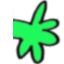
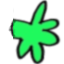
Updated images (for flip). Added overlay.

Changed region(s): [[0.125, 0.3125, 0.25, 0.5938]]

diff --git a/src/main.cpp b/src/main.cpp
@@ -5,6 +5,7 @@
 #include "Foot.h"
 #include "Background.h"
 #include "Hand.h"
+#include "Overlay.h"
 
 #include <GL/glut.h>
 
@@ -49,6 +50,7 @@ void draw(int id)
 
   Mob::inst->draw();
   Monster::inst->draw();
+  Overlay::inst->draw();
 
   std::stringstream ss;
   ss << "Distance travelled: " << Monster::inst->getDistance();
@@ -74,18 +76,35 @@ void load_resources()
 {
   Mob::texture = util::sdl_loadtexture("resources/mob.png");
   Foot::texture = util::sdl_loadtexture("resources/foot.png");
+  Foot::texturel = util::sdl_loadtexture("resources/footl.png");
   Hand::texture = util::sdl_loadtexture("resources/hand.png");
+  Hand::texturel = util::sdl_loadtexture("resources/handl.png");
   Monster::texture = util::sdl_loadtexture("resources/body.png");
   Background::grounds.push_back(util::sdl_loadtexture("resources/ground1.png"));
   Background::grounds.push_back(util::sdl_loadtexture("resources/ground2.png"));
   Background::skys.push_back(util::sdl_loadtexture("resources/sky1.png"));
   Background::backgrounds.push_back(util::sdl_loadtexture("resources/background1.png"));
   Background::backgrounds.push_back(util::sdl_loadtexture("resources/background2.png"));
+  Overlay::texture = util::sdl_loadtexture("resources/overlay.png");
 
   f.load("resources/font.png");
   s.load("resources/welcome.ogg");
   lightning.load("resources/lightning.ogg");
-  Monster::fall.load("resources/fall.ogg");
+
+  for(int i = 1; i <= 15; i++)
+  {
+    std::stringstream ss;
+    ss << "resources/fgrunt_" << i << ".ogg";
+    Monster::grunts.push_back(util::Sound(ss.str()));
+  }
+
+  for(int i = 1; i <= 15; i++)
+  {
+    std::stringstream ss;
+    ss << "resources/fgrunt_" << i << ".ogg";
+    Mob::shouts.push_back(util::Sound(ss.str()));
+  }
+
   Foot::plod.load("resources/footstep.ogg");
 }
 
@@ -99,6 +118,7 @@ void restart()
   Camera::inst = std::make_shared<Camera>();
   Monster::inst = std::make_shared<Monster>();
   Mob::inst = std::make_shared<Mob>();
+  Overlay::inst = std::make_shared<Overlay>();
 }
 
 int main()

diff --git a/src/Mob.cpp b/src/Mob.cpp
@@ -6,6 +6,7 @@
 
 SDL_Texture* Mob::texture;
 std::shared_ptr<Mob> Mob::inst;
+std::vector<util::Sound> Mob::shouts;
 
 Mob::Mob()
 {
@@ -13,6 +14,7 @@ Mob::Mob()
   pos.y = 100;
   speed = 10;
   unleashed = false;
+  shoutTimer = 1000;
 }
 
 void Mob::unleash()
@@ -55,4 +57,12 @@ void Mob::update()
   if(!unleashed) return;
   speed += 5 * util::delta_time;
   pos.x += speed * util::delta_time;
+
+  shoutTimer -= 1000 * util::delta_time;
+
+  if(shoutTimer <= 0)
+  {
+    shouts.at(util::rand(shouts.size() - 1)).play();
+    shoutTimer = util::rand(500);
+  }
 }

diff --git a/src/Foot.cpp b/src/Foot.cpp
@@ -6,6 +6,7 @@
 #include <iostream>
 
 SDL_Texture* Foot::texture;
+SDL_Texture* Foot::texturel;
 util::Sound Foot::plod;
 
 Foot::Foot(int id)
@@ -161,5 +162,13 @@ void Foot::draw()
   r.x = pos.x + offset.x;
   r.y = pos.y + offset.y;
   SDL_QueryTexture(texture, NULL, NULL, &r.w, &r.h);
-  SDL_RenderCopy(util::sdl_renderer, texture, NULL, &r);
+
+  if(clientId == 1)
+  {
+    SDL_RenderCopy(util::sdl_renderer, texturel, NULL, &r);
+  }
+  else
+  {
+    SDL_RenderCopy(util::sdl_renderer, texture, NULL, &r);
+  }
 }

diff --git a/src/Hand.cpp b/src/Hand.cpp
@@ -6,6 +6,7 @@
 #include <iostream>
 
 SDL_Texture* Hand::texture;
+SDL_Texture* Hand::texturel;
 util::Sound Hand::grab;
 
 Hand::Hand(int id)
@@ -66,5 +67,13 @@ void Hand::draw()
   r.x = pos.x + offset.x;
   r.y = pos.y + offset.y;
   SDL_QueryTexture(texture, NULL, NULL, &r.w, &r.h);
-  SDL_RenderCopy(util::sdl_renderer, texture, NULL, &r);
+
+  if(clientId == 3)
+  {
+    SDL_RenderCopy(util::sdl_renderer, texturel, NULL, &r);
+  }
+  else
+  {
+    SDL_RenderCopy(util::sdl_renderer, texture, NULL, &r);
+  }
 }

diff --git a/src/util.h b/src/util.h
@@ -32,6 +32,7 @@ extern double delta_time;
 
 bool colliding(SDL_Rect& a, SDL_Rect& b);
 
+int rand(int max);
 void sdl_initialize(std::string title, int width, int height);
 void update_deltatime();
 void sdl_clearscreen(int r, int g, int b);
@@ -67,6 +68,8 @@ class Sound
   std::shared_ptr<SoundImpl> impl;
 
 public:
+  Sound();
+  Sound(std::string path);
   void load(std::string path);
   void play(float vol, float varMin, float varMax);
   void play();

diff --git a/src/Monster.cpp b/src/Monster.cpp
@@ -6,7 +6,7 @@
 
 std::shared_ptr<Monster> Monster::inst;
 SDL_Texture* Monster::texture;
-util::Sound Monster::fall;
+std::vector<util::Sound> Monster::grunts;
 
 Monster::Monster()
 {
@@ -49,7 +49,8 @@ void Monster::update()
     {
       if(fallAmount > 50)
       {
-        fall.play();
+        grunts.at(util::rand(grunts.size() - 1)).play();
+        //fall.play();
         falling = true;
       }
     }

diff --git a/src/Overlay.cpp b/src/Overlay.cpp
@@ -1,0 +1,25 @@
+#include "Overlay.h"
+
+#include <GL/glut.h>
+
+SDL_Texture* Overlay::texture;
+std::shared_ptr<Overlay> Overlay::inst;
+
+Overlay::Overlay()
+{
+
+}
+
+void Overlay::draw()
+{
+  SDL_Rect r = { 0 };
+  r.w = glutGet(GLUT_WINDOW_WIDTH);
+  r.h = glutGet(GLUT_WINDOW_HEIGHT);
+
+  SDL_RenderCopy(util::sdl_renderer, texture, NULL, &r);
+}
+
+void Overlay::update()
+{
+
+}

diff --git a/src/Monster.h b/src/Monster.h
@@ -1,6 +1,7 @@
 #include "util.h"
 
 #include <memory>
+#include <vector>
 
 struct Foot;
 struct Hand;
@@ -9,7 +10,7 @@ struct Monster
 {
   static std::shared_ptr<Monster> inst;
   static SDL_Texture* texture;
-  static util::Sound fall;
+  static std::vector<util::Sound> grunts;
 
   std::shared_ptr<Foot> leftFoot;
   std::shared_ptr<Foot> rightFoot;

diff --git a/src/util.cpp b/src/util.cpp
@@ -22,6 +22,11 @@ namespace util
   ALCcontext* context;
   std::vector<ALuint> audioSources;
 
+  int rand(int max)
+  {
+    return ::rand() % (max + 1);
+  }
+
   void log(std::string message)
   {
     std::cout << "[util]" << message << std::endl;

diff --git a/src/Mob.h b/src/Mob.h
@@ -8,10 +8,12 @@ class Mob
 public:
   static SDL_Texture* texture;
   static std::shared_ptr<Mob> inst;
+  static std::vector<util::Sound> shouts;
 
   glm::vec3 pos;
   float speed;
   bool unleashed;
+  float shoutTimer;
 
   Mob();
 

diff --git a/src/Overlay.h b/src/Overlay.h
@@ -1,0 +1,14 @@
+#include "util.h"
+
+#include <memory>
+
+struct Overlay
+{
+  static std::shared_ptr<Overlay> inst;
+  static SDL_Texture* texture;
+  static util::Sound lightning;
+
+  Overlay();
+  void update();
+  void draw();
+};

diff --git a/src/Sound.cpp b/src/Sound.cpp
@@ -80,6 +80,13 @@ struct SoundImpl
   }
 };
 
+Sound::Sound() { }
+
+Sound::Sound(std::string path)
+{
+  load(path);
+}
+
 void Sound::load(std::string path)
 {
   impl = std::make_shared<SoundImpl>();
